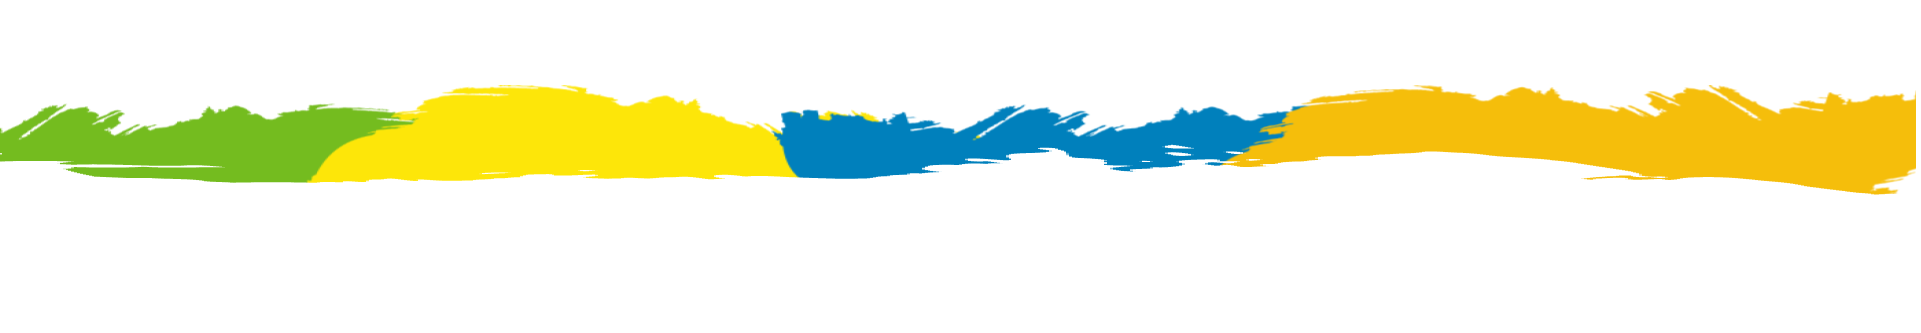
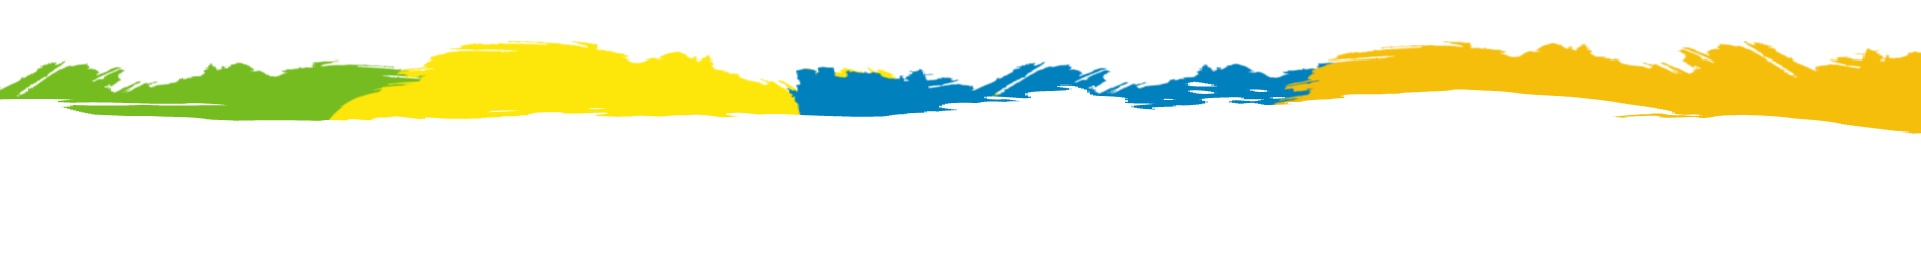
cambio de colores y elementos

Changed region(s): [[0.0, 0.1544, 1.0, 0.5869]]

diff --git a/src/pages/Home.tsx b/src/pages/Home.tsx
@@ -5,7 +5,8 @@ import Button from '../components/common/Button';
 import Section from '../components/common/Section';
 import Card, { CardContent } from '../components/common/Card';
 import { cn } from '../utils/cn';
-import Slider from '../assets/slider/GIZ_CD-05.png';
+import Slider from '../assets/slider/GIZ_CD_03.png';
+import SliderTop from '../assets/slider/GIZ_CD_02.png';
 import Icon1 from '../assets/iconos/GIZ_CD-06.png';
 import Icon2 from '../assets/iconos/GIZ_CD-07.png';
 import Icon3 from '../assets/iconos/GIZ_CD-08.png';
@@ -15,7 +16,7 @@ import Icon6 from '../assets/iconos/GIZ_CD-11.png';
 import Icon7 from '../assets/iconos/GIZ_CD-12.png';
 import Icon8 from '../assets/iconos/GIZ_CD-13.png';
 
-import Logos from '../assets/logos/GIZ_CD-14.png';
+import Logos from '../assets/logos/CINTILLO_GIZ.png';
 
 import Banner from '../assets/slider/GIZ_CD-16.png';
 
@@ -71,7 +72,7 @@ const StatCard = ({ value, label, className, img }: StatCardProps) => (
     style={{display: 'flex', flexDirection: 'column', alignItems: 'center', justifyContent: 'center'}}
   >
     <img src={img} width={80}/>
-    <h3 className="text-3xl font-bold text-primary-500 mb-2">{value}</h3>
+    <h3 className="text-3xl font-bold text-black my-2">{value}</h3>
     <p className="text-neutral-600 text-center">{label}</p>
   </div>
 );
@@ -173,6 +174,7 @@ const Home = () => {
             </div>
           </div>
         ))}
+        <img src={SliderTop} style={{position:'absolute', bottom:-10, zIndex:'10000'}}/>
         
         {/* Slider Controls */}
         <div className="absolute bottom-8 left-0 right-0 z-30 flex justify-center gap-2">
@@ -204,14 +206,26 @@ const Home = () => {
       </div>
 
       {/* Project Summary */}
-      <Section>
+      <Section className='bg-white'>
         <div className="max-w-4xl mx-auto text-center animate-on-scroll">
           <h2 className="text-3xl md:text-4xl font-bold mb-6">Acerca del Proyecto</h2>
           <p className="text-lg text-neutral-700 mb-4">
             Conecta Datos es una iniciativa regional que busca fortalecer las capacidades de las organizaciones de la sociedad civil (OSC) en Centroamérica para utilizar datos abiertos como herramienta de incidencia y monitoreo de políticas públicas.
           </p>
-          <p className="text-lg text-neutral-700">
+          <p className="text-lg text-neutral-700 mb-4">
             A través de formación técnica, asistencia especializada y la creación de una red colaborativa, promovemos la cultura de datos abiertos y la participación ciudadana para impulsar la transparencia y la rendición de cuentas en la región.
+          </p>
+          <p className="text-lg text-neutral-700">
+            Este es un proyecto financiado por el Gobierno Federal
+            de Alemania por medio de la Cooperación Alemana
+            para el Desarrollo GIZ, junto a la Secretaría Ejecutiva
+            del COSEFIN e implementado por Red Ciudadana.
+            Juntos fomentamos el uso estratégico de los datos
+            abiertos en Centroamérica porque los datos abiertos
+            son un motor de innovación, crecimiento económico y
+            desarrollo sostenible. Además, creemos en su
+            capacidad para fortalecer la transparencia fiscal y
+            mejorar la gestión pública.
           </p>
         </div>
       </Section>

diff --git a/src/pages/DatosAbiertos.tsx b/src/pages/DatosAbiertos.tsx
@@ -4,12 +4,13 @@ import Button from '../components/common/Button';
 import Section from '../components/common/Section';
 import Card, { CardContent, CardHeader, CardFooter } from '../components/common/Card';
 import Banner from '../assets/slider/GIZ_CD-16.png';
+import Datos1 from '../assets/datos/GIZ_CD-01.png';
 
 const PrincipleCard = ({ number, title, description }: { number: number; title: string; description: string }) => (
   <Card className="animate-on-scroll">
     <CardHeader className="bg-primary-500 text-white">
       <div className="flex items-center gap-3">
-        <span className="flex items-center justify-center w-8 h-8 rounded-full bg-white text-primary-500 font-bold">
+        <span className="flex items-center justify-center w-8 h-8 rounded-full bg-white text-primary-400 font-bold">
           {number}
         </span>
         <h3 className="text-xl font-bold">{title}</h3>
@@ -129,7 +130,7 @@ const DatosAbiertos = () => {
           </div>
           <div className="animate-on-scroll">
             <img 
-              src="https://images.pexels.com/photos/7947782/pexels-photo-7947782.jpeg?auto=compress&cs=tinysrgb&w=1260&h=750&dpr=1" 
+              src={Datos1}
               alt="Datos abiertos en acción" 
               className="rounded-lg shadow-lg"
             />
@@ -216,13 +217,13 @@ const DatosAbiertos = () => {
           />
           <SuccessCase 
             title="Transparencia en contrataciones públicas"
-            country="El Salvador"
+            country="Guatemala"
             impact="Reducción de irregularidades en licitaciones mediante el análisis de datos de contrataciones gubernamentales."
             image="https://images.pexels.com/photos/5668473/pexels-photo-5668473.jpeg?auto=compress&cs=tinysrgb&w=1260&h=750&dpr=1"
           />
           <SuccessCase 
             title="Calidad del servicio de agua potable"
-            country="Honduras"
+            country="Guatemala"
             impact="Mejora en el acceso al agua en comunidades vulnerables gracias al mapeo de datos de cobertura."
             image="https://images.pexels.com/photos/1933239/pexels-photo-1933239.jpeg?auto=compress&cs=tinysrgb&w=1260&h=750&dpr=1"
           />

diff --git a/src/pages/Participa.tsx b/src/pages/Participa.tsx
@@ -5,6 +5,8 @@ import Section from '../components/common/Section';
 import Card, { CardContent } from '../components/common/Card';
 import { cn } from '../utils/cn';
 import ContactForm from '../components/common/ContactForm';
+import Banner from '../assets/slider/GIZ_CD-16.png';
+import Datos2 from '../assets/datos/GIZ_CD-02.png';
 
 interface FAQ {
   question: string;
@@ -66,18 +68,26 @@ const Participa = () => {
   return (
     <>
       {/* Header */}
-      <div className="pt-32 pb-16 bg-gradient-to-br from-primary-500 to-primary-700 text-white">
-        <div className="container-custom">
-          <div className="max-w-3xl mx-auto text-center">
-            <h1 className="text-4xl md:text-5xl font-bold mb-6 animate-on-scroll">
-              Participa
-            </h1>
-            <p className="text-xl mb-6 animate-on-scroll">
-              Únete a nuestra comunidad y sé parte del cambio con datos abiertos
-            </p>
-          </div>
+      <Section
+        className="text-white text-center"
+        style={{
+          backgroundImage: `url(${Banner})`,
+          backgroundSize: "cover",
+          backgroundRepeat: "no-repeat",
+          backgroundPosition: "center",
+          width: "100%",
+          minHeight: "50vh",
+        }}
+      >
+        <div className="max-w-3xl my-24 mx-auto text-center">
+          <h1 className="text-4xl md:text-5xl font-bold mb-6 animate-on-scroll">
+            Participa
+          </h1>
+          <p className="text-xl mb-6 animate-on-scroll">
+            Únete a nuestra comunidad y sé parte del cambio con datos abiertos
+          </p>
         </div>
-      </div>
+      </Section>
 
       {/* Open Call Section */}
       <Section>
@@ -126,7 +136,7 @@ const Participa = () => {
           </div>
           <div className="animate-on-scroll">
             <img 
-              src="https://images.pexels.com/photos/3184405/pexels-photo-3184405.jpeg?auto=compress&cs=tinysrgb&w=1260&h=750&dpr=1" 
+              src={Datos2}
               alt="Equipo de trabajo colaborando" 
               className="rounded-lg shadow-lg"
             />

diff --git a/src/pages/Talleres.tsx b/src/pages/Talleres.tsx
@@ -107,7 +107,7 @@ const EventCard = ({ event }: { event: Event }) => {
         <div className="flex justify-between items-start mb-4">
           <div className="flex items-center text-neutral-600 gap-4">
             <span className="flex items-center gap-2">
-              <Calendar size={16} className="text-primary-600" />
+              <Calendar size={16} className="text-primary-700" />
               {formattedDate}
             </span>
             <span className="flex items-center gap-2 text-sm">
@@ -288,7 +288,7 @@ const TalleresPage = () => {
                 className={cn(
                   "px-4 py-2 text-sm font-medium transition-colors",
                   eventFilter === "all"
-                    ? "bg-primary-600 text-white"
+                    ? "bg-primary-700 text-white"
                     : "text-neutral-700 hover:bg-neutral-200"
                 )}
               >
@@ -299,7 +299,7 @@ const TalleresPage = () => {
                 className={cn(
                   "px-4 py-2 text-sm font-medium transition-colors",
                   eventFilter === "upcoming"
-                    ? "bg-primary-600 text-white"
+                    ? "bg-primary-700 text-white"
                     : "text-neutral-700 hover:bg-neutral-200"
                 )}
               >
@@ -310,7 +310,7 @@ const TalleresPage = () => {
                 className={cn(
                   "px-4 py-2 text-sm font-medium transition-colors",
                   eventFilter === "past"
-                    ? "bg-primary-600 text-white"
+                    ? "bg-primary-700 text-white"
                     : "text-neutral-700 hover:bg-neutral-200"
                 )}
               >

diff --git a/src/components/common/Footer.tsx b/src/components/common/Footer.tsx
@@ -7,7 +7,7 @@ const Footer = () => {
   return (
     <footer className="bg-neutral-800 text-white pt-16 pb-8">
       <div className="container-custom">
-        <div className="grid grid-cols-1 md:grid-cols-2 lg:grid-cols-4 gap-8">
+        <div className="grid grid-cols-1 md:grid-cols-2 lg:grid-cols-3 gap-8">
           {/* About */}
           <div>
             <h4 className="text-xl font-bold mb-4">Conecta Datos</h4>
@@ -41,7 +41,7 @@ const Footer = () => {
           </div>
           
           {/* Organizations */}
-          <div>
+          {/* <div>
             <h4 className="text-xl font-bold mb-4">Organismos de Apoyo</h4>
             <ul className="space-y-2">
               <li>
@@ -63,7 +63,7 @@ const Footer = () => {
             <div className="mt-4">
               <Link to="/participa" className="text-white font-medium hover:text-secondary-500 transition-colors">OSC participantes</Link>
             </div>
-          </div>
+          </div> */}
           
           {/* Contact */}
           <div>
@@ -74,7 +74,7 @@ const Footer = () => {
                 <span className="text-neutral-300">Centroamérica: Guatemala, El Salvador, Honduras</span>
               </li> */}
               <li className="flex items-center gap-2">
-                <Mail className="text-secondary-500 shrink-0" size={18} />
+                <Mail className="text-primary-500 shrink-0" size={18} />
                 <a href="mailto:info@conectadatos.org" className="text-neutral-300 hover:text-white transition-colors">info@redciudadana.org</a>
               </li>
               {/* <li className="flex items-center gap-2">

diff --git a/tailwind.config.js b/tailwind.config.js
@@ -9,10 +9,10 @@ export default {
           100: '#e0eeff',
           200: '#baddff',
           300: '#84c5ff',
-          400: '#48a7ff',
-          500: '#1a8aff',
-          600: '#0066ff',
-          700: '#0054d6',
+          400: '#34589c',
+          500: '#4d96cc',
+          600: '#4d96cc',
+          700: '#4d96cc',
           800: '#0045af',
           900: '#4d96cc',
         },

diff --git a/src/components/common/Navbar.tsx b/src/components/common/Navbar.tsx
@@ -42,7 +42,7 @@ const Navbar = () => {
       )}
     >
       <div className="container-custom">
-        <div className="flex items-center justify-between">
+        <div className="flex items-center justify-between my-2">
           {/* Logo */}
           <Link to="/" className="flex items-center" onClick={closeMenu}>
             <img 
